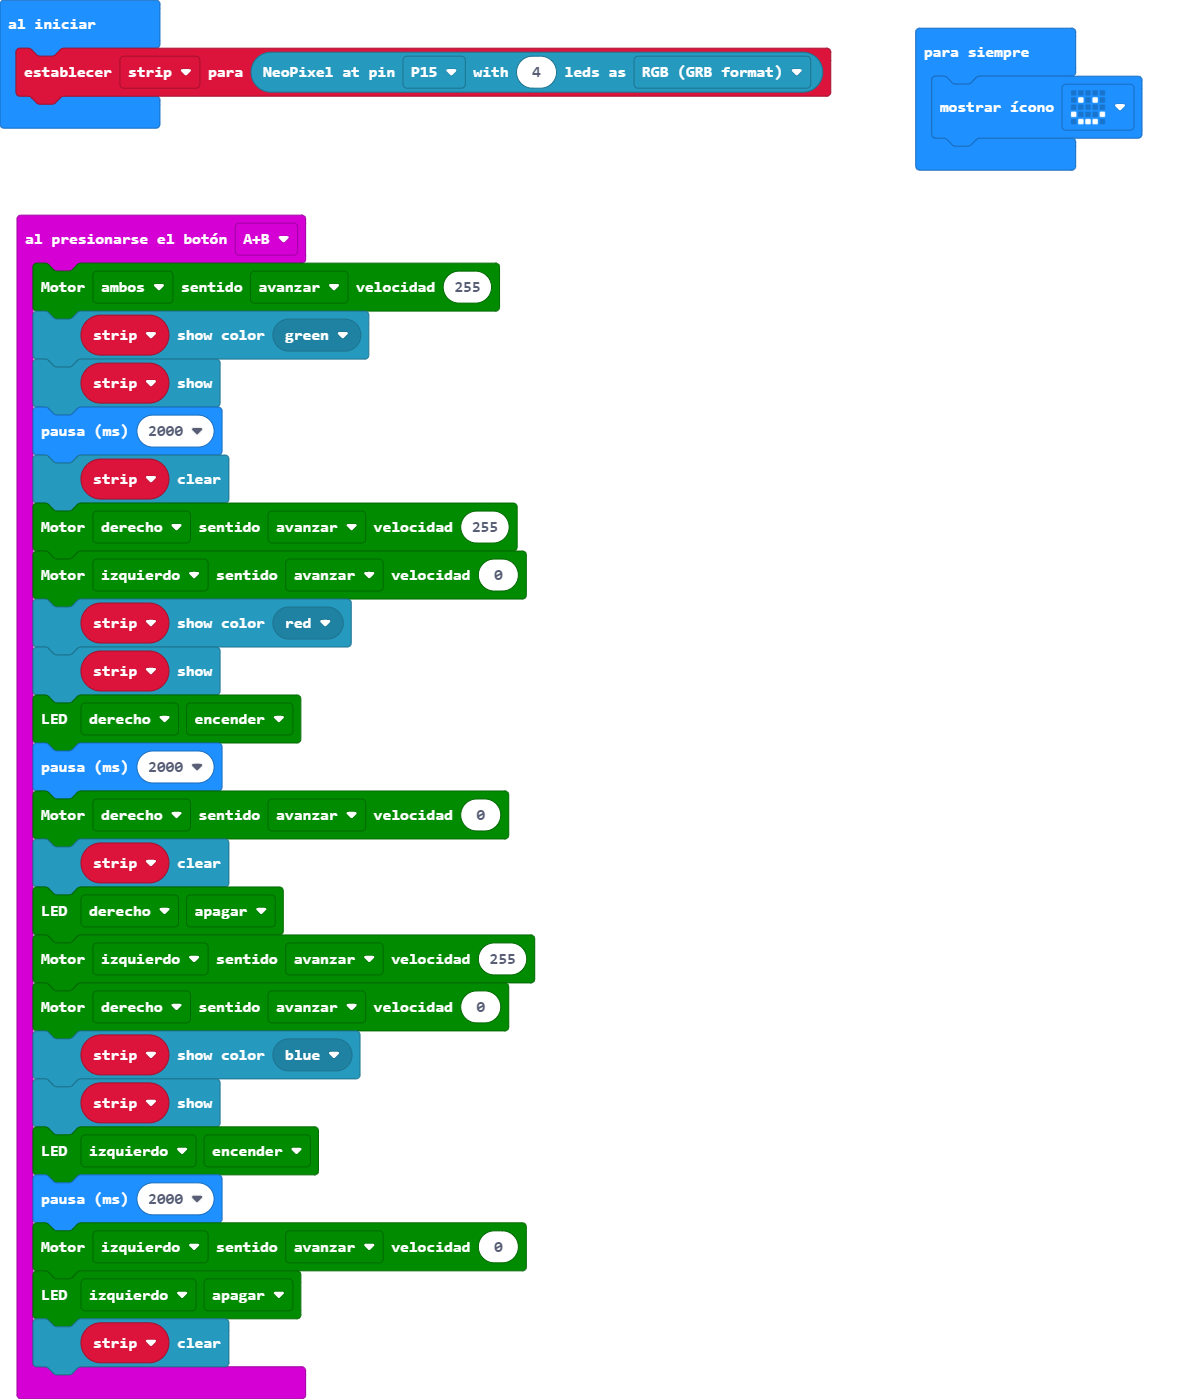
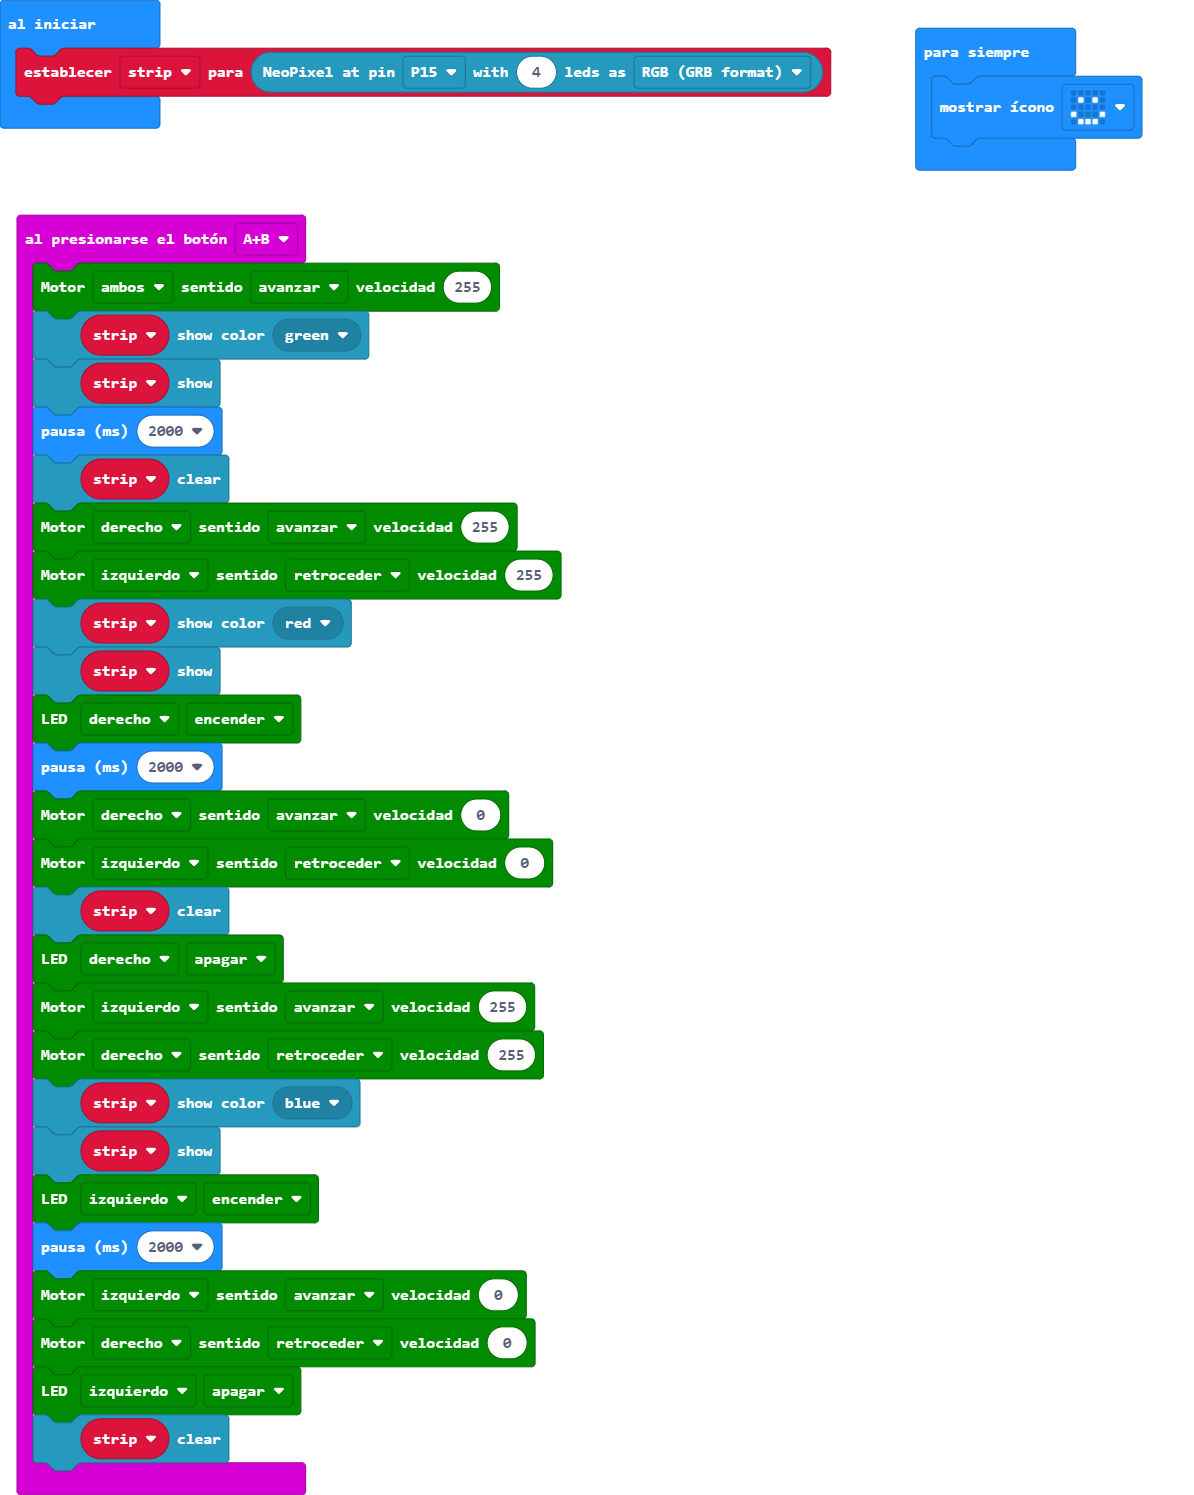
Actualizar main.blocks, main.ts

Changed region(s): [[0.0, 0.1229, 0.4958, 0.9836], [0.0, 0.0, 0.7127, 0.0922], [0.7747, 0.0307, 0.9606, 0.1229]]

diff --git a/main.ts b/main.ts
@@ -5,21 +5,23 @@ input.onButtonPressed(Button.AB, function () {
     basic.pause(2000)
     strip.clear()
     maqueen.motorRun(maqueen.Motors.M2, maqueen.Dir.CW, 255)
-    maqueen.motorRun(maqueen.Motors.M1, maqueen.Dir.CW, 0)
+    maqueen.motorRun(maqueen.Motors.M1, maqueen.Dir.CCW, 255)
     strip.showColor(neopixel.colors(NeoPixelColors.Red))
     strip.show()
     maqueen.writeLED(maqueen.LED.LEDLeft, maqueen.LEDswitch.turnOn)
     basic.pause(2000)
     maqueen.motorRun(maqueen.Motors.M2, maqueen.Dir.CW, 0)
+    maqueen.motorRun(maqueen.Motors.M1, maqueen.Dir.CCW, 0)
     strip.clear()
     maqueen.writeLED(maqueen.LED.LEDLeft, maqueen.LEDswitch.turnOff)
     maqueen.motorRun(maqueen.Motors.M1, maqueen.Dir.CW, 255)
-    maqueen.motorRun(maqueen.Motors.M2, maqueen.Dir.CW, 0)
+    maqueen.motorRun(maqueen.Motors.M2, maqueen.Dir.CCW, 255)
     strip.showColor(neopixel.colors(NeoPixelColors.Blue))
     strip.show()
     maqueen.writeLED(maqueen.LED.LEDRight, maqueen.LEDswitch.turnOn)
     basic.pause(2000)
     maqueen.motorRun(maqueen.Motors.M1, maqueen.Dir.CW, 0)
+    maqueen.motorRun(maqueen.Motors.M2, maqueen.Dir.CCW, 0)
     maqueen.writeLED(maqueen.LED.LEDRight, maqueen.LEDswitch.turnOff)
     strip.clear()
 })
